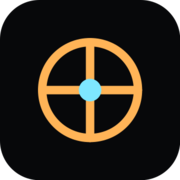
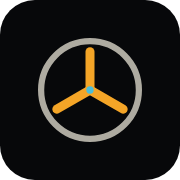
Use the real three-blade mark everywhere (#1)
The site drew a four-arm cross. The real mark is three rounded blades at 90, 210 and 330 degrees inside a grey ring, with a cyan hub. Replaced in the header component, the favicon, both PWA icons and the social preview image. No other changes.

diff --git a/apps/web/src/ui/Shell.tsx b/apps/web/src/ui/Shell.tsx
@@ -76,9 +76,17 @@ export function TopBar({ config, onSignIn }: { config: AppConfig | undefined; on
           title={envLabel ? `${envLabel}: internal rehearsal origin, not the final host` : undefined}
         >
           <svg width="18" height="18" viewBox="0 0 64 64" aria-hidden>
-            <circle cx="32" cy="32" r="17" fill="none" stroke="#ffb457" strokeWidth="4" />
-            <path d="M32 15v34M15 32h34" stroke="#ffb457" strokeWidth="4" strokeLinecap="round" />
-            <circle cx="32" cy="32" r="5" fill="#7ee7ff" />
+            <mask id="turnstile-mark-hub">
+              <rect width="64" height="64" fill="#fff" />
+              <circle cx="32" cy="32" r="3.88" fill="#000" />
+            </mask>
+            <circle cx="32" cy="32" r="21.38" fill="none" stroke="#aeaba1" strokeWidth="2.72" />
+            <g stroke="#f4a527" strokeWidth="3.94" strokeLinecap="round" mask="url(#turnstile-mark-hub)">
+              <path d="M32 32v-16.75" />
+              <path d="M32 32 17.49 40.38" />
+              <path d="M32 32 46.51 40.38" />
+            </g>
+            <circle cx="32" cy="32" r="1.61" fill="#4bbeda" />
           </svg>
           {envLabel ? (
             // the phone's version of the environment chip: a dot on the mark, the label in its tooltip
